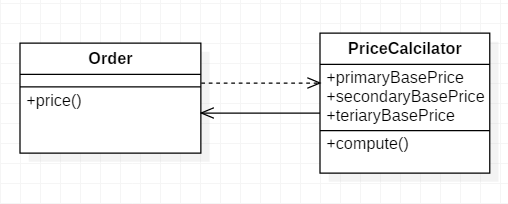
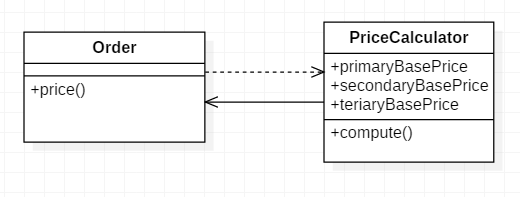
[리펙토링/메서드를 메서드 객체로 전환]
메서드를 메서드 객체로 전환

- 오타 수정

Changed region(s): [[0.0295, 0.0914, 0.9744, 0.8528]]

diff --git a/chapter06/8.ReplaceMethodWithMethodObject.md b/chapter06/8.ReplaceMethodWithMethodObject.md
@@ -28,3 +28,8 @@
 
 * after  
 ![Alt text](img/6.PNG)
+```java
+	public int price(){
+		return new PriceCalculator(this).compute();
+	}
+```
